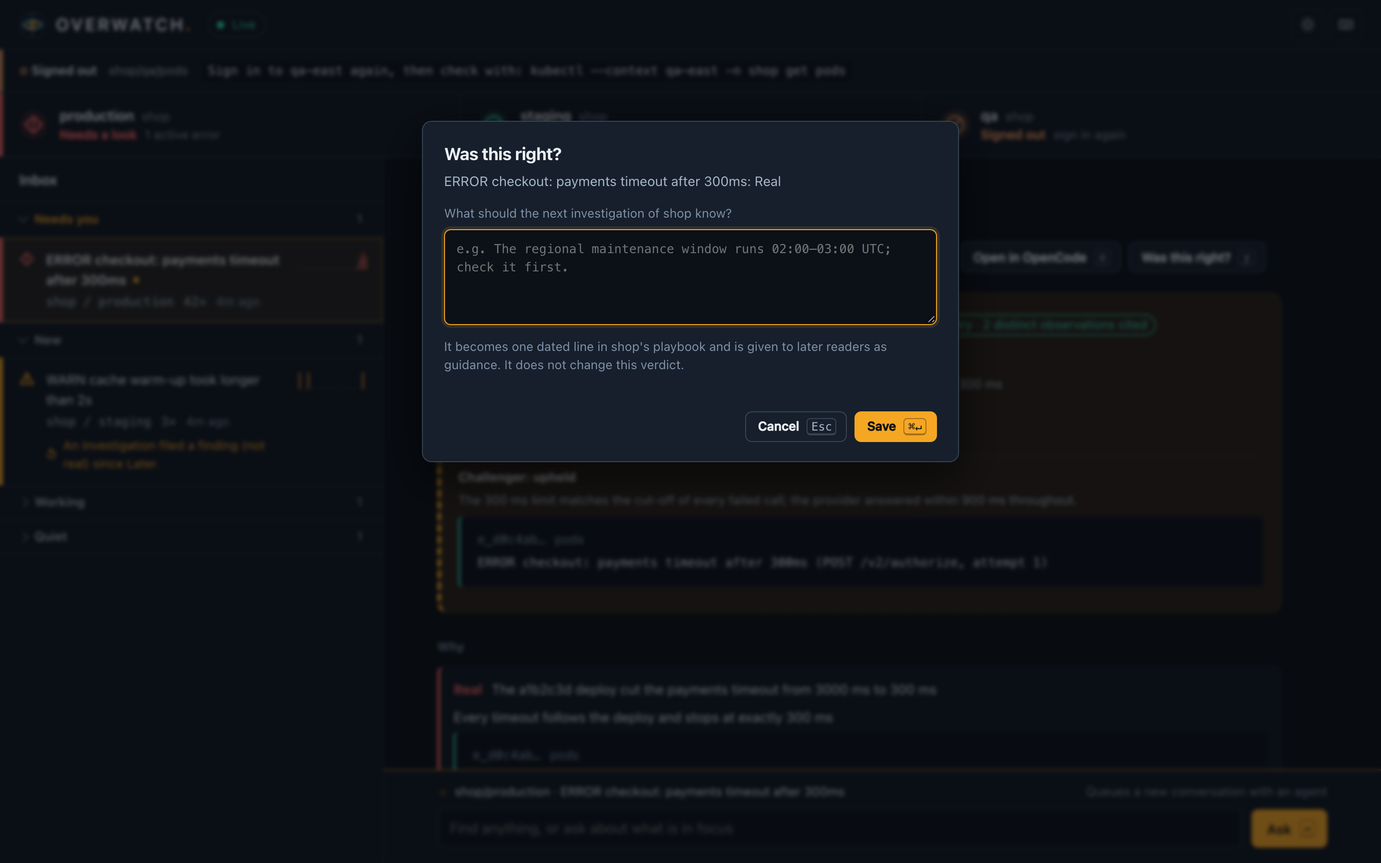
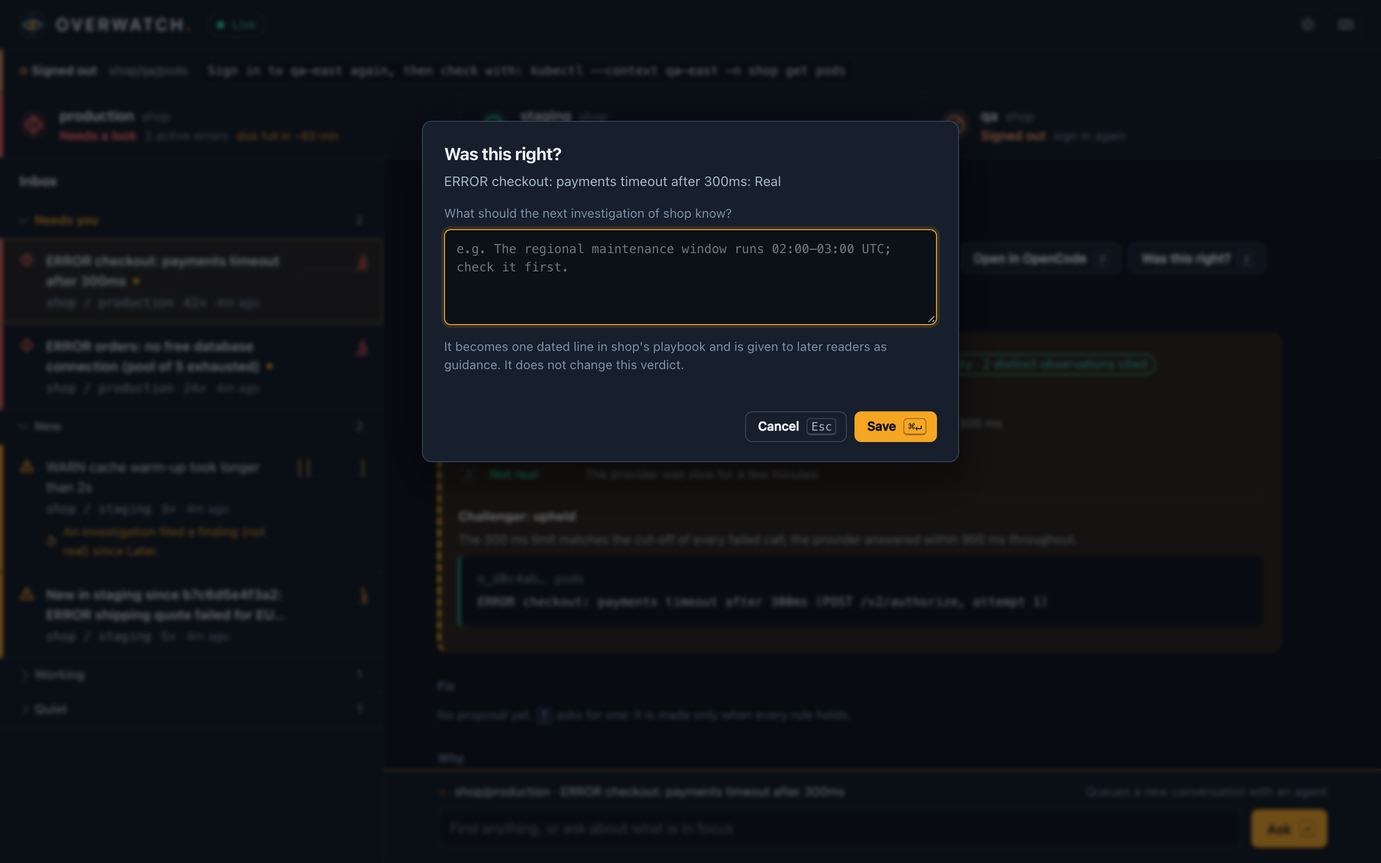
Page and demo: fix proposals in place, time left, staging signals; screenshots
The item shows its fix attempt: state, the one rule that stopped it or why it is
eligible, the diff, the verify commands and results, and the draft's link and state;
f asks for one. The strip and environment show time left only from a forecast, with
its basis, and the reason otherwise; a staging regression is an inbox item and a
note on the environment. The demo seeds a draft fix on a 3-of-3 problem, a rising
disk and a staging regression. doctor checks ow-fixer when an app opts in. One
deadline helper (bounded) for every agent session, the fixer's included.

diff --git a/src/demo.ts b/src/demo.ts
@@ -3,6 +3,7 @@
  * No cluster, Datadog or OpenCode is contacted. Production has a timeout that followed a deploy, staging has harmless
  * noise, QA's cluster is signed out, and an older incident has been resolved.
  */
+import { createHash } from "node:crypto";
 import { mkdirSync, mkdtempSync } from "node:fs";
 import { tmpdir } from "node:os";
 import { join } from "node:path";
@@ -21,10 +22,21 @@ export function demoConfig(port: number): Config {
       version: 2,
       dataDir,
       port,
-      apps: { shop: { checkout: "checkout", environments: { production: { sources: { pods: pods("prod-east") } }, staging: { sources: { pods: pods("staging-east") } }, qa: { sources: { pods: pods("qa-east") } } } } },
+      apps: {
+        shop: {
+          checkout: "checkout",
+          fixes: { remote: "origin", base: "main", paths: ["config/database.json", "config/payments.json"], verify: [["npm", "test", "--", "config"]] },
+          promotion: { staging: "staging", production: "production" },
+          environments: {
+            production: { sources: { pods: pods("prod-east"), disk: { type: "datadog", apiKey: "env:OW_DEMO_UNUSED", appKey: "env:OW_DEMO_UNUSED", query: "service:orders", metric: "avg:orders.disk.used{*}", readings: ["metrics"], capacity: { resource: "disk", unit: "bytes", limit: 500e9 } } } },
+            staging: { sources: { pods: pods("staging-east") } },
+            qa: { sources: { pods: pods("qa-east") } },
+          },
+        },
+      },
       watchers: [
         { app: "shop", environment: "production", every: "2m" },
-        { app: "shop", environment: "staging", every: "10m" },
+        { app: "shop", environment: "staging", every: "2m" },
         { app: "shop", environment: "qa", every: "10m" },
       ],
     },
@@ -52,7 +64,7 @@ export function seedDemo(store: Store, config: Config) {
       w.run(
         "INSERT INTO sources (id, checkpoint_ms, failure, streak, next_ms, suspended, fix, endpoint, delay_ms) VALUES (?, ?, ?, ?, ?, ?, ?, ?, ?)",
         s(source.id), signedOut ? now - hour : now, signedOut ? s("signin") : null, signedOut ? 2 : 0, now + source.everyMs, signedOut ? 1 : 0,
-        signedOut ? s(`Sign in to ${source.context} again, then check with: kubectl --context ${source.context} -n shop get pods`) : null, s(`kubernetes:${source.context}`), source.everyMs,
+        signedOut ? s(`Sign in to ${source.context} again, then check with: kubectl --context ${source.context} -n shop get pods`) : null, s(`${source.kind}:${source.context ?? source.baseUrl}`), source.everyMs,
       );
       for (const reading of source.readings) {
         w.run("INSERT INTO readings (source, reading, state, at_ms, ok_ms) VALUES (?, ?, 'ok', ?, ?)", s(source.id), s(reading), signedOut ? now - hour : now, signedOut ? now - hour : now);
@@ -70,6 +82,17 @@ export function seedDemo(store: Store, config: Config) {
     problem(w, "inc_d0c4ab11", "production", "ERROR checkout: payments timeout after 300ms", "error", [0, 0, 0, 0, 0, 0, 0, 0, 0, 0, 0, 0, 0, 0, 0, 0, 0, 0, 0, 0, 3, 11, 16, 12], seeded("inc_d0c4ab11", "production"));
     problem(w, "inc_d0c3f00d", "staging", "WARN cache warm-up took longer than 2s", "warn", [1, 0, 0, 1, 0, 0, 0, 0, 0, 0, 0, 0, 0, 0, 0, 0, 0, 0, 0, 0, 0, 0, 1, 0], seeded("inc_d0c3f00d", "staging"));
     problem(w, "inc_d0c1ed9e", "production", "WARN ledger reconciliation lag above 120s on shard 4", "warn", [0, 0, 0, 0, 0, 0, 0, 0, 0, 0, 0, 0, 0, 0, 0, 0, 0, 1, 2, 1, 2, 1, 1, 1], seeded("inc_d0c1ed9e", "production"));
+    problem(w, "inc_d0c0db05", "production", "ERROR orders: no free database connection (pool of 5 exhausted)", "error", [0, 0, 0, 0, 0, 0, 0, 0, 0, 0, 0, 0, 0, 0, 0, 0, 0, 0, 0, 0, 2, 7, 9, 6], seeded("inc_d0c0db05", "production"));
+    // Disk use on the orders database host, rising evenly: time left, from six provider samples.
+    const series = createHash("sha256").update(JSON.stringify(["avg:orders.disk.used{*}", "disk", "bytes", 500e9])).digest("hex");
+    for (let n = 5; n >= 0; n--) w.run("INSERT INTO samples (source, series, at_ms, value) VALUES ('shop/production/disk', ?, ?, ?)", s(series), now - n * 2 * min, 410e9 + (5 - n) * 2.6e9);
+    // Staging took a new release; production did not. Two compared intervals found a staging-only problem.
+    const staged = w.event("deploy", s("shop/staging"), { revision: "b7c6d5e4f3a2", previous: "a1b2c3d4e5f6", demo: true });
+    w.run("INSERT INTO deploys (seq, app, environment, revision, previous) VALUES (?, 'shop', 'staging', 'b7c6d5e4f3a2', 'a1b2c3d4e5f6')", staged);
+    problem(w, "inc_d0c5a6e0", "staging", "New in staging since b7c6d5e4f3a2: ERROR shipping quote failed for EU addresses (production a1b2c3d4e5f6 unchanged)", "warn", [0, 0, 3, 2], seeded("inc_d0c5a6e0", "staging"));
+    w.run("UPDATE incidents SET reading = 'comparison', source = 'shop/staging/comparison' WHERE id = 'inc_d0c5a6e0'");
+    w.run(`INSERT INTO comparisons (id, app, staging_revision, production_revision, start_seq, state, reason, staging_count, production_count, data, incident)
+      VALUES ('cmp_d0c5a6e0', 'shop', 'b7c6d5e4f3a2', 'a1b2c3d4e5f6', ?, 'regression', 'ERROR shipping quote failed for EU addresses: 5 in staging over two intervals, none in production', 5, 0, '{}', 'inc_d0c5a6e0')`, staged);
   });
   // The owner's history, through the same rules as real work: an old issue put away with Done; the staging warning
   // put away with Later, then a finding on it brings it back; a question about the ledger lag queued for an agent.
@@ -89,7 +112,16 @@ export function seedDemo(store: Store, config: Config) {
     afterFinding(w, store, "inc_d0c3f00d", filed, "not_real");
   });
   ask(store, config, { subject: "inc_d0c1ed9e", text: "Why is ledger reconciliation lagging since the a1b2c3d deploy?", mode: "auto" }, "rk_d0c1ed9e0000000000000001");
-  investigated(store);
+  investigated(store, TIMEOUT);
+  investigated(store, POOL);
+  // Its fix, as Overwatch would have proposed it: restore pool_size, verified in isolation, open as a draft.
+  store.tx((w) => {
+    const job = "job_d0c0db050000000000000001", seq = w.event("fix", "inc_d0c0db05" as Clean, { id: "fx_d0c0db05", state: "draft", demo: true });
+    const diff = 'diff --git a/config/database.json b/config/database.json\n--- a/config/database.json\n+++ b/config/database.json\n@@ -1,5 +1,5 @@\n {\n   "host": "orders-db",\n-  "pool_size": 5,\n+  "pool_size": 20,\n   "timeout_ms": 2000\n }\n';
+    const data = { title: POOL.title, summary: "Restore pool_size in config/database.json to 20, its value at 9f8e7d6c5b4a", paths: ["config/database.json"], proposal: { kind: "setting", path: "config/database.json", key: "pool_size" },
+      verification: [{ argv: ["npm", "test", "--", "config"], exitCode: 0, elapsedMs: 8412, summary: "12 passing" }], pr: { number: 412, url: "https://git.example/shop/pull/412", draft: true, state: "OPEN" } };
+    w.run("INSERT INTO fixes (id, incident, job_id, app, environment, origin, state, previous, deployed, base, candidate, head, diff, data, seq) VALUES ('fx_d0c0db05', 'inc_d0c0db05', ?, 'shop', 'production', 'automatic', 'draft', '9f8e7d6c5b4a', 'a1b2c3d4e5f6', 'c4d5e6f7a8b9', 'e8f9a0b1c2d3', 'e8f9a0b1c2d3', ?, ?, ?)", job as Clean, diff as Clean, json(data), seq);
+  });
   // An answered question on the staging warning, as an agent would have answered it.
   ask(store, config, { subject: "inc_d0c3f00d", text: "Has the warm-up time changed since the a1b2c3d deploy?", mode: "auto" }, "rk_d0c3f00d0000000000000002");
   store.tx((w) => {
@@ -101,35 +133,54 @@ export function seedDemo(store: Store, config: Config) {
   });
 }
 
-/** The production timeout, investigated: three readings (two real, one dissent) and a challenger that upheld. */
-function investigated(store: Store) {
-  const s = (v: string) => v as Clean;
-  const subject = "inc_d0c4ab11", job = "job_d0c4ab110000000000000001", code = { expected: "a1b2c3d4e5f6", read: "a1b2c3d4e5f6", deployed: true };
-  const lines = ["ERROR checkout: payments timeout after 300ms (POST /v2/authorize, attempt 1)", "ERROR checkout: payments timeout after 300ms (POST /v2/authorize, attempt 2)"];
-  const diff = "config/payments.yaml @ a1b2c3d\n- timeout_ms: 3000\n+ timeout_ms: 300";
-  const votes: Array<[string, string, string, string]> = [
+type Spec = { subject: string; tag: string; title: string; lines: string[]; diff: string; votes: Array<[string, string, string, string]>; upheld: string };
+/** The production timeout: three readings (two real, one dissent) and a challenger that upheld. */
+const TIMEOUT: Spec = {
+  subject: "inc_d0c4ab11", tag: "d0c4ab11", title: "ERROR checkout: payments timeout after 300ms",
+  lines: ["ERROR checkout: payments timeout after 300ms (POST /v2/authorize, attempt 1)", "ERROR checkout: payments timeout after 300ms (POST /v2/authorize, attempt 2)"],
+  diff: "config/payments.yaml @ a1b2c3d\n- timeout_ms: 3000\n+ timeout_ms: 300",
+  votes: [
     ["real", "The a1b2c3d deploy cut the payments timeout from 3000 ms to 300 ms", "Every timeout follows the deploy and stops at exactly 300 ms", "telemetry"],
     ["real", "The timeout value changed in a1b2c3d", "The deployed config sets timeout_ms to 300, down from 3000", "code"],
     ["not_real", "The provider was slow for a few minutes", "Timeouts could be the provider's own slowness", "telemetry"],
-  ];
+  ],
+  upheld: "The 300 ms limit matches the cut-off of every failed call; the provider answered within 900 ms throughout.",
+};
+/** The connection pool: three of three real, upheld, observed. Eligible, so it has a draft fix. */
+const POOL: Spec = {
+  subject: "inc_d0c0db05", tag: "d0c0db05", title: "ERROR orders: no free database connection (pool of 5 exhausted)",
+  lines: ["ERROR orders: no free database connection (pool of 5 exhausted, 41 waiting)", "ERROR orders: no free database connection (pool of 5 exhausted, 38 waiting)"],
+  diff: "config/database.json @ a1b2c3d\n- \"pool_size\": 20,\n+ \"pool_size\": 5,",
+  votes: [
+    ["real", "a1b2c3d lowered pool_size from 20 to 5", "Exhaustion starts with the deploy and every error names a pool of 5", "telemetry"],
+    ["real", "The pool is too small for the order rate since a1b2c3d", "41 requests wait for 5 connections at the peak", "telemetry"],
+    ["real", "pool_size changed in the deploy", "Waiting requests track checkout traffic, not database latency", "telemetry"],
+  ],
+  upheld: "Database latency stayed under 4 ms; only the pool size changed, and every failure names it.",
+};
+
+function investigated(store: Store, spec: Spec) {
+  const s = (v: string) => v as Clean;
+  const { subject, lines, diff } = spec, job = `job_${spec.tag}0000000000000001`, code = { expected: "a1b2c3d4e5f6", read: "a1b2c3d4e5f6", deployed: true };
+  const votes = spec.votes;
   store.tx((w) => {
     const seq = w.event("investigation_queued", s(subject), { job, origin: "automatic", demo: true });
-    w.run("INSERT INTO jobs (id, kind, subject, title, state, created_seq, inputs) VALUES (?, 'investigation', ?, 'ERROR checkout: payments timeout after 300ms', 'completed', ?, ?)", s(job), s(subject), seq, json({ planned: 3, demo: true }));
+    w.run("INSERT INTO jobs (id, kind, subject, title, state, created_seq, inputs) VALUES (?, 'investigation', ?, ?, 'completed', ?, ?)", s(job), s(subject), s(spec.title), seq, json({ planned: 3, demo: true }));
     const readings = votes.map(([verdict, cause, statement, kind], n) => {
-      const run = `run_d0c4ab11000000000000000${n + 1}`, session = `ses_d0c4ab11000000000000000${n + 1}`, finding = `f_d0c4ab11000000000000000${n + 1}`;
+      const run = `run_${spec.tag}000000000000000${n + 1}`, session = `ses_${spec.tag}000000000000000${n + 1}`, finding = `f_${spec.tag}000000000000000${n + 1}`;
       w.run("INSERT INTO runs (id, job_id, attempt, session_id, state, calls, code, started_ms, role, slot) VALUES (?, ?, ?, ?, 'terminal', 3, ?, ?, 'investigator', ?)", s(run), s(job), n + 1, s(session), json(code), clock.now(), n + 1);
       const pieces = (kind === "code" ? [diff] : lines).map((text, k) => {
-        const handle = `e_d0c4ab11${n}${k}0000000000000000`;
+        const handle = `e_${spec.tag}${n}${k}0000000000000000`;
         w.run("INSERT INTO evidence (handle, run_id, session_id, source, text, ordinal) VALUES (?, ?, ?, ?, ?, ?)", s(handle), s(run), s(session), s(kind === "code" ? "code" : "pods"), s(text), k + 1);
         w.run("INSERT INTO origins (handle, origin) VALUES (?, ?)", s(handle), s(kind === "code" ? "code" : "telemetry"));
         return { handle, source: kind === "code" ? "code" : "pods", text };
       });
       const body = { cause, ruled_out: verdict === "real" ? ["provider outage (status page green)", "database latency"] : [], not_checked: ["the provider's own logs"], next_check: "Restore timeout_ms to 3000 and watch the rate", impact: "checkout payments fail", affected: ["shop/production"], since: null, status: "investigated" };
       w.run("INSERT INTO findings (id, run_id, verdict, claims, code, body) VALUES (?, ?, ?, ?, ?, ?)", s(finding), s(run), s(verdict), json([{ statement, pieces }]), json(code), json(body));
-      w.run("INSERT INTO work (id, job_id, kind, slot, priority, state, run_id, seq) VALUES (?, ?, 'reading', ?, 1, 'done', ?, ?)", s(`wk_d0c4ab11${n}`), s(job), n + 1, s(run), seq);
+      w.run("INSERT INTO work (id, job_id, kind, slot, priority, state, run_id, seq) VALUES (?, ?, 'reading', ?, 1, 'done', ?, ?)", s(`wk_${spec.tag}${n}`), s(job), n + 1, s(run), seq);
       return { slot: n + 1, sessionId: session, verdict: verdict as "real" | "not_real", findingId: finding, reason: null, telemetry: kind !== "code", observed: kind === "code" ? [] : lines };
     });
-    const challenge = { outcome: "upheld" as const, reason: "The 300 ms limit matches the cut-off of every failed call; the provider answered within 900 ms throughout.", pieces: [{ handle: "e_d0c4ab11c00000000000000000", source: "pods", text: lines[0]! }] };
+    const challenge = { outcome: "upheld" as const, reason: spec.upheld, pieces: [{ handle: `e_${spec.tag}00000000000000000000`, source: "pods", text: lines[0]! }] };
     const decided = adjudicate(3, readings, challenge);
     const at = w.next();
     const observations = new Set(readings.filter((r) => r.verdict === decided.verdict).flatMap((r) => r.observed)).size;
@@ -146,6 +197,7 @@ export function freshen(store: Store) {
   if (oldest == null || Math.abs(now - oldest) < 60_000) return; // either way: a wall clock set back still renews
   store.tx((w) => {
     w.run("UPDATE readings SET at_ms = ?, ok_ms = ? WHERE source NOT LIKE 'shop/qa/%'", now, now);
+    w.run("UPDATE samples SET at_ms = at_ms + ? ", now - (store.get<{ t: number }>("SELECT max(at_ms) AS t FROM samples")?.t ?? now));
     w.event("slice", null, { demo: true, renewed: "readings", atMs: now });
   });
 }

diff --git a/src/doctor.ts b/src/doctor.ts
@@ -99,15 +99,15 @@ export async function doctor(config: Config, store: Store | null, emptyDir: stri
     throw new Error(`the model ${config.opencode.model} did not answer within two minutes`);
   });
   // Each role Overwatch runs: its own filing tool allowed, everything else denied. The investigator keeps the id "agent".
-  for (const [id, name, filing] of [["agent", "ow-investigator", "ow_finding"], ["agent:challenger", "ow-challenger", "ow_challenge"], ["agent:responder", "ow-responder", null]] as const) {
-    const tools = [...READ, ...(filing ? [filing] : [])];
+  const fixer = Object.values(config.apps).some((a) => a.fixes);
+  for (const [id, name, tools] of [["agent", "ow-investigator", [...READ, "ow_finding"]], ["agent:challenger", "ow-challenger", [...READ, "ow_challenge"]], ["agent:responder", "ow-responder", READ], ...(fixer ? [["agent:fixer", "ow-fixer", ["ow_telemetry", "ow_proposal"]] as const] : [])] as const) {
     await check(id, `Add the ${name} agent (deny all, allow ${tools.map((t) => `ow_${t}`).join(", ")}) to your OpenCode configuration; see docs/setup.md`, async () => {
       const agent = (await settled(() => need().agents(emptyDir), (l) => l.some((a) => a.id === name))).find((a) => a.id === name || a.name === name);
       if (!agent) throw new Error(`OpenCode has no ${name} agent`);
       // OpenCode puts its defaults first and the last matching rule wins: evaluate the rules as it does.
       const rules = (Array.isArray(agent.permissions) ? agent.permissions : []) as Array<Record<string, unknown>>;
       const effect = (action: string) => rules.findLast((r) => glob(String(r.action ?? "")).test(action) && String(r.resource ?? "*") === "*")?.effect ?? "allow";
-      const others = ["bash", "edit", "read", "webfetch", "ow_other", ...["ow_finding", "ow_challenge"].filter((t) => t !== filing).map((t) => `ow_${t}`)];
+      const others = ["bash", "edit", "read", "webfetch", "ow_other", ...[...READ, "ow_finding", "ow_challenge", "ow_proposal"].filter((t) => !(tools as readonly string[]).includes(t)).map((t) => `ow_${t}`)];
       const missing = tools.filter((t) => effect(`ow_${t}`) !== "allow");
       if (missing.length) throw new Error(`${name} cannot use ${missing.map((t) => `ow_${t}`).join(", ")}`);
       for (const other of others) if (effect(other) !== "deny") throw new Error(`${name} does not deny ${other}`);

diff --git a/web/page.css b/web/page.css
@@ -405,3 +405,25 @@ body[data-link="down"] .groups, body[data-link="down"] .stage { opacity: 0.55; f
   .dock { position: sticky; bottom: 0; }
 }
 @media (prefers-reduced-motion: reduce) { *, *::before, *::after { animation: none !important; transition: none !important; } }
+
+/* ------------------------------------------------------------ looking ahead: time left and staging signals */
+.env-state .ahead { display: block; margin-top: 2px; font-size: var(--text-xs, 12px); color: var(--state-warn); font-variant-numeric: tabular-nums; }
+.env-state .ahead.warn { color: var(--state-warn); }
+.note.warn { color: var(--state-warn); }
+
+/* ------------------------------------------------------------ fix proposals: the change is readable in place */
+.fixes .fix { border: 1px solid var(--border-strong); border-radius: var(--radius-lg); padding: 12px 14px; margin-top: 10px; background: var(--bg-deck); }
+.fixes .fix.live { border-left: 4px solid var(--cyan); }
+.fixes .fix.working { border-left: 4px dashed var(--state-active); }
+.fixes .fix.stopped { border-left: 4px solid var(--border-strong); }
+.fix header { display: flex; flex-wrap: wrap; align-items: baseline; gap: 6px 14px; }
+.fix header a { color: var(--cyan); font-variant-numeric: tabular-nums; }
+.fix header button { margin-left: auto; }
+.fix .eligible { color: var(--ink-secondary); font-size: var(--text-sm); }
+.fix .diff { font-family: var(--font-mono, ui-monospace, monospace); font-size: 12.5px; line-height: 1.45; padding: 10px 12px; border-radius: var(--radius-md, 8px); background: var(--bg-base, rgba(0,0,0,.25)); overflow-x: auto; white-space: pre; }
+.fix .diff ins { text-decoration: none; color: var(--state-ok); }
+.fix .diff del { text-decoration: none; color: var(--state-error); }
+.fix .verification { list-style: none; padding: 0; margin: 8px 0 0; display: grid; gap: 4px; font-size: var(--text-sm); }
+.fix .verification li { display: flex; gap: 12px; justify-content: space-between; }
+.fix .verification li.ok span { color: var(--state-ok); }
+.fix .verification li.failed span { color: var(--state-error); }

diff --git a/src/fixes.ts b/src/fixes.ts
@@ -15,7 +15,7 @@ import { existsSync, mkdirSync, mkdtempSync, readdirSync, readFileSync, realpath
 import { tmpdir } from "node:os";
 import { delimiter, join, resolve } from "node:path";
 import { FORBIDDEN, LIMITS, type Config, type Fixes as Policy } from "./config.ts";
-import { clock, sleep } from "./clock.ts";
+import { bounded, clock, Expired, sleep } from "./clock.ts";
 import { run as exec } from "./exec.ts";
 import { HttpError, doneByRule, receipt } from "./inbox.ts";
 import { connect, OpenCode, Unavailable } from "./opencode.ts";
@@ -644,14 +644,16 @@ async function session(store: Store, tools: Tools, config: Config, emptyDir: str
     while (slots.active >= slots.max) await sleep(50);
     slots.active++;
     try {
-      await oc.createSession({ id: sessionId, title, agent: "ow-fixer", model: config.opencode.model, directory: emptyDir });
+      await bounded(oc.createSession({ id: sessionId, title, agent: "ow-fixer", model: config.opencode.model, directory: emptyDir }), deadline);
       for (const text of [prompt, "You have not filed a proposal yet. File exactly one ow_proposal now, or abstain."]) {
         if (store.get("SELECT 1 FROM proposals WHERE run_id = ?", runId)) break;
         const message = `msg_${randomBytes(12).toString("hex")}`;
         store.tx((w) => w.run("INSERT INTO messages (id, run_id, purpose) VALUES (?, ?, 'prompt')", message as Clean, runId as Clean));
-        await oc.prompt(sessionId, { id: message, text });
-        while (clock.mono() < deadline && !OpenCode.after(await oc.messages(sessionId), message).idle) await sleep(25);
+        await bounded(oc.prompt(sessionId, { id: message, text }), deadline);
+        while (clock.mono() < deadline && !OpenCode.after(await bounded(oc.messages(sessionId), deadline), message).idle) await sleep(25);
       }
+    } catch (e) {
+      if (!(e instanceof Expired)) throw e; // the session's five minutes are up; the next attempt or none
     } finally {
       slots.active--;
       tools.contexts.delete(runId);

diff --git a/src/agents.ts b/src/agents.ts
@@ -12,7 +12,7 @@ import { createHash, randomBytes } from "node:crypto";
 import { existsSync, mkdirSync, renameSync, writeFileSync } from "node:fs";
 import { delimiter, join } from "node:path";
 import { LIMITS, type Config } from "./config.ts";
-import { clock, sleep } from "./clock.ts";
+import { bounded, clock, Expired, sleep } from "./clock.ts";
 import { run as exec } from "./exec.ts";
 import { afterFinding, announce, groupNow, HttpError, label, passed, receipt } from "./inbox.ts";
 import { connect, OpenCode, Unavailable } from "./opencode.ts";
@@ -559,18 +559,6 @@ export class Agents {
 
 const helperPath = () => (process.env.PATH ?? "").split(delimiter).map((d) => join(d, "terminal-notifier")).find((f) => existsSync(f));
 
-class Expired extends Error {}
-function bounded<T>(work: Promise<T>, deadline: number): Promise<T> {
-  work.catch(() => undefined);
-  return new Promise<T>((resolve, reject) => {
-    const timer = setInterval(() => {
-      if (clock.mono() < deadline) return;
-      clearInterval(timer);
-      reject(new Expired());
-    }, 50);
-    work.then((v) => (clearInterval(timer), resolve(v)), (e) => (clearInterval(timer), reject(e)));
-  });
-}
 
 // ---------------------------------------------------------------- prompts: text from logs, code or a model is data
 

diff --git a/src/trial.ts b/src/trial.ts
@@ -13,7 +13,7 @@ import { mkdirSync, mkdtempSync, writeFileSync, chmodSync } from "node:fs";
 import { join } from "node:path";
 import { tmpdir } from "node:os";
 import { LIMITS, type Config } from "./config.ts";
-import { clock, sleep } from "./clock.ts";
+import { bounded, clock, Expired, sleep } from "./clock.ts";
 import { run as exec } from "./exec.ts";
 import { connect, OpenCode } from "./opencode.ts";
 import { json, type Clean, type Store } from "./store.ts";
@@ -238,24 +238,6 @@ export class Trial {
     }
     throw new Expired();
   }
-}
-
-class Expired extends Error {}
-
-/** The work's result, or Expired once the service's monotonic clock reaches the deadline, whichever comes first. */
-function bounded<T>(work: Promise<T>, deadline: number): Promise<T> {
-  work.catch(() => undefined);
-  return new Promise<T>((resolve, reject) => {
-    const timer = setInterval(() => {
-      if (clock.mono() < deadline) return;
-      clearInterval(timer);
-      reject(new Expired());
-    }, 50);
-    work.then(
-      (v) => (clearInterval(timer), resolve(v)),
-      (e) => (clearInterval(timer), reject(e)),
-    );
-  });
 }
 
 /** Automation is approved for one model (and this trial): a trial of another model never approves it. */

diff --git a/src/snapshot.ts b/src/snapshot.ts
@@ -7,6 +7,7 @@
  * failed, missing, capped or cut, or collection is paused; needs a look (attention) if an error is open; and only then
  * quiet. With no expected reading at all it can never be quiet.
  */
+import { comparisons, forecasts } from "./outlook.ts";
 import { LIMITS, type Config } from "./config.ts";
 import { clock } from "./clock.ts";
 import { approvalKey } from "./trial.ts";
@@ -111,6 +112,7 @@ export function snapshot(store: Store, config: Config, collector: Collector | nu
     coverage,
     metrics: store.all<{ source: string; name: string; value: number; at_ms: number; breach: number }>("SELECT * FROM metrics ORDER BY source, name").map((m) => ({ source: m.source, name: m.name, value: m.value, atMs: m.at_ms, breach: m.breach === 1 })),
     deploys: store.all("SELECT app, environment, revision, previous, seq FROM deploys ORDER BY seq"),
+    outlook: { forecasts: forecasts(store, config), comparisons: comparisons(store, config) },
     causes,
     // Real work at the top; the trial's calibration work in its own namespace.
     jobs: jobs(store, false),

diff --git a/src/server.ts b/src/server.ts
@@ -47,7 +47,10 @@ export async function serve(store: Store, config: Config, options: { scheduler: 
   const agents = new Agents(store, tools, config, empty, options.log);
   const fixes = new Fixes(store, tools, config, empty, options.log);
   // An item in full: its fix attempts and, for a staging regression, its comparison, beside the inbox's own detail.
-  const itemOf = (id: string) => ({ ...detail(store, config, id), fixes: fixes.forItem(id), comparison: comparisons(store, config).find((c) => c.incident === id) ?? null });
+  const itemOf = (id: string) => {
+    const d = detail(store, config, id);
+    return { ...d, fixable: Boolean(config.apps[d.incident.app]?.fixes), fixes: fixes.forItem(id), comparison: comparisons(store, config).find((c) => c.incident === id) ?? null };
+  };
   const key = (req: IncomingMessage) => req.headers["idempotency-key"] as string | undefined;
   // The owner's tools in an ordinary OpenCode session call exactly what the page calls.
   tools.owner = {

diff --git a/test/real/screenshots.ts b/test/real/screenshots.ts
@@ -110,6 +110,15 @@ try {
       await key("?", true);
       await shot("desktop-dark-keys");
       await key("Escape");
+      // Milestone 4: a draft fix on its problem, time left on an environment, a staging regression item.
+      await evaluate("document.querySelector('[data-toggle=working]')?.click(); document.querySelector('[data-item-id=inc_d0c0db05]')?.click(); true");
+      await sleep(500);
+      await evaluate("document.querySelector('.fixes')?.scrollIntoView({ block: 'start' }); true");
+      await shot("desktop-dark-fix");
+      await evaluate("document.querySelector('[data-env=production]').click(); true");
+      await shot("desktop-dark-time-left");
+      await evaluate("document.querySelector('[data-item-id=inc_d0c5a6e0]')?.click(); true");
+      await shot("desktop-dark-staging-signal");
     }
   }
   await view(390, 844, "dark");

diff --git a/src/clock.ts b/src/clock.ts
@@ -26,3 +26,17 @@ export const clock = {
 };
 
 export const sleep = (ms: number) => new Promise<void>((resolve) => setTimeout(resolve, ms));
+
+export class Expired extends Error {}
+/** The work's result, or Expired once the service's monotonic clock reaches the deadline, whichever comes first. */
+export function bounded<T>(work: Promise<T>, deadline: number): Promise<T> {
+  work.catch(() => undefined);
+  return new Promise<T>((resolve, reject) => {
+    const timer = setInterval(() => {
+      if (clock.mono() < deadline) return;
+      clearInterval(timer);
+      reject(new Expired());
+    }, 50);
+    work.then((v) => (clearInterval(timer), resolve(v)), (e) => (clearInterval(timer), reject(e)));
+  });
+}
